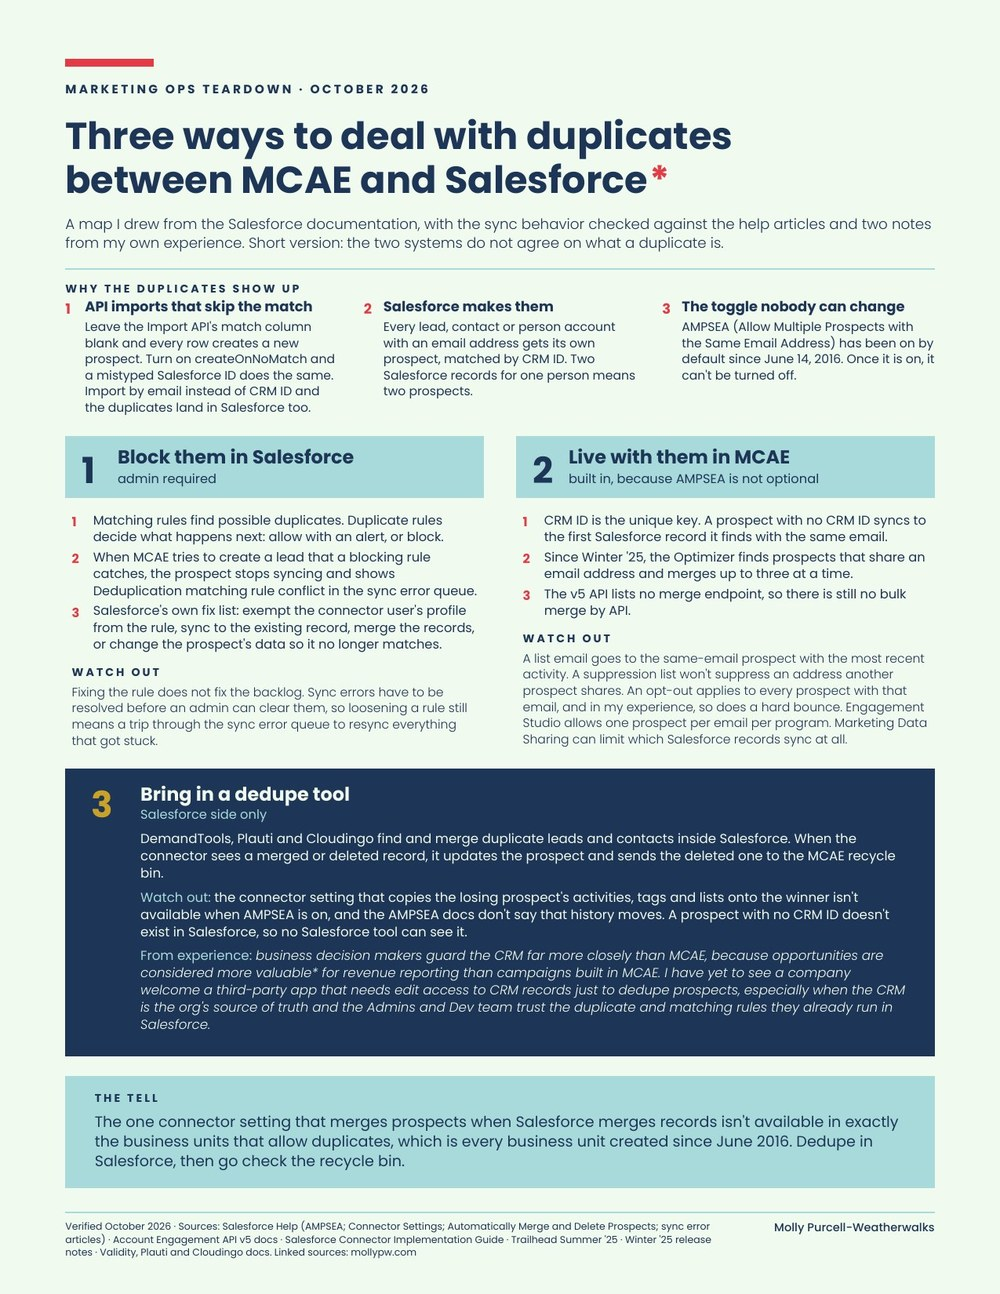
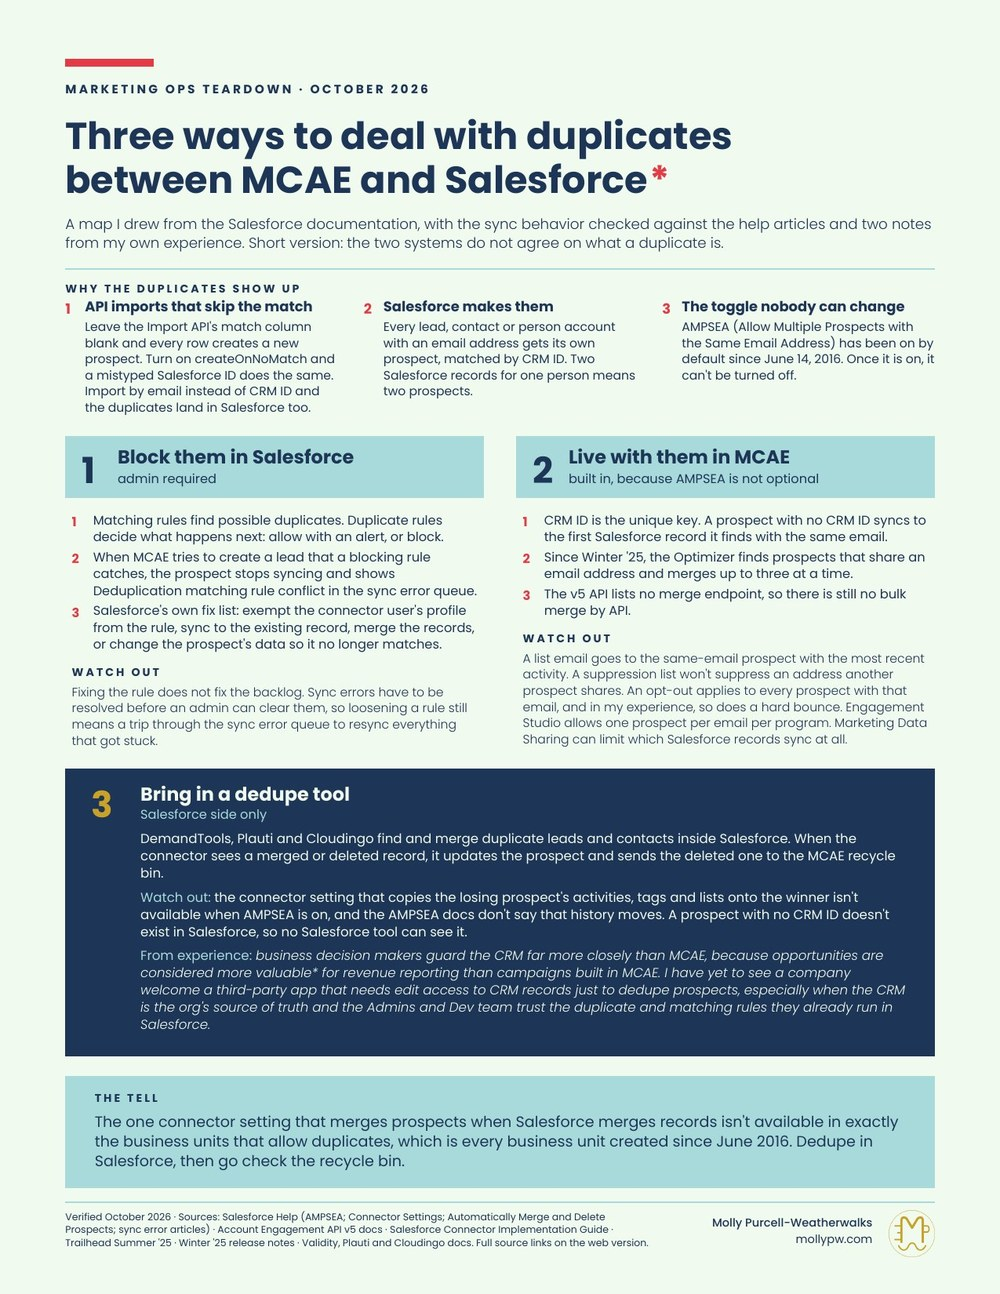
Add MEPW monogram and mollypw.com to duplicates teardown footer, PDF and preview
Claude-Session: https://claude.ai/code/session_01DsEECXTikR8zK7ynktzs5M

Changed region(s): [[0.062, 0.9274, 0.93, 0.9892]]

diff --git a/projects/mcae-duplicates-teardown/index.html b/projects/mcae-duplicates-teardown/index.html
@@ -80,8 +80,15 @@ image: "/assets/images/mcae-duplicates-teardown-og.jpg"
     <li>Vendor docs: <a href="https://mycommunity.validity.com/t5/demandtools/merging-accounts-when-not-full-system-admins/m-p/1536">Validity (DemandTools)</a>, <a href="https://www.plauti.com/hub/developer/salesforce/apex-api/merge-methods/merge-records-by-providing-ids/overview">Plauti</a>, <a href="https://appexchange.salesforce.com/image_host/edfa84bd-6295-4716-8e3b-aac9659dd4c7.pdf">Cloudingo (PDF)</a></li>
   </ul>
 
-  <p class="small mt-4" style="color: #1D3557;">
-    Verified October 2026.
-  </p>
+  <div class="d-flex justify-content-between align-items-end mt-4 pt-3" style="border-top: 1px solid #A8DADC;">
+    <p class="small mb-0" style="color: #1D3557;">Verified October 2026.</p>
+    <div class="d-flex align-items-center">
+      <p class="small mb-0 mr-3 text-right" style="color: #1D3557;">
+        <strong>Molly Purcell-Weatherwalks</strong><br>
+        <a href="https://mollypw.com" style="color: #1D3557;">mollypw.com</a>
+      </p>
+      <img src="{{ site.baseurl }}/assets/images/mepw-monogram.png" alt="" aria-hidden="true" width="48" height="48" style="pointer-events: none;">
+    </div>
+  </div>
 
 </div>
